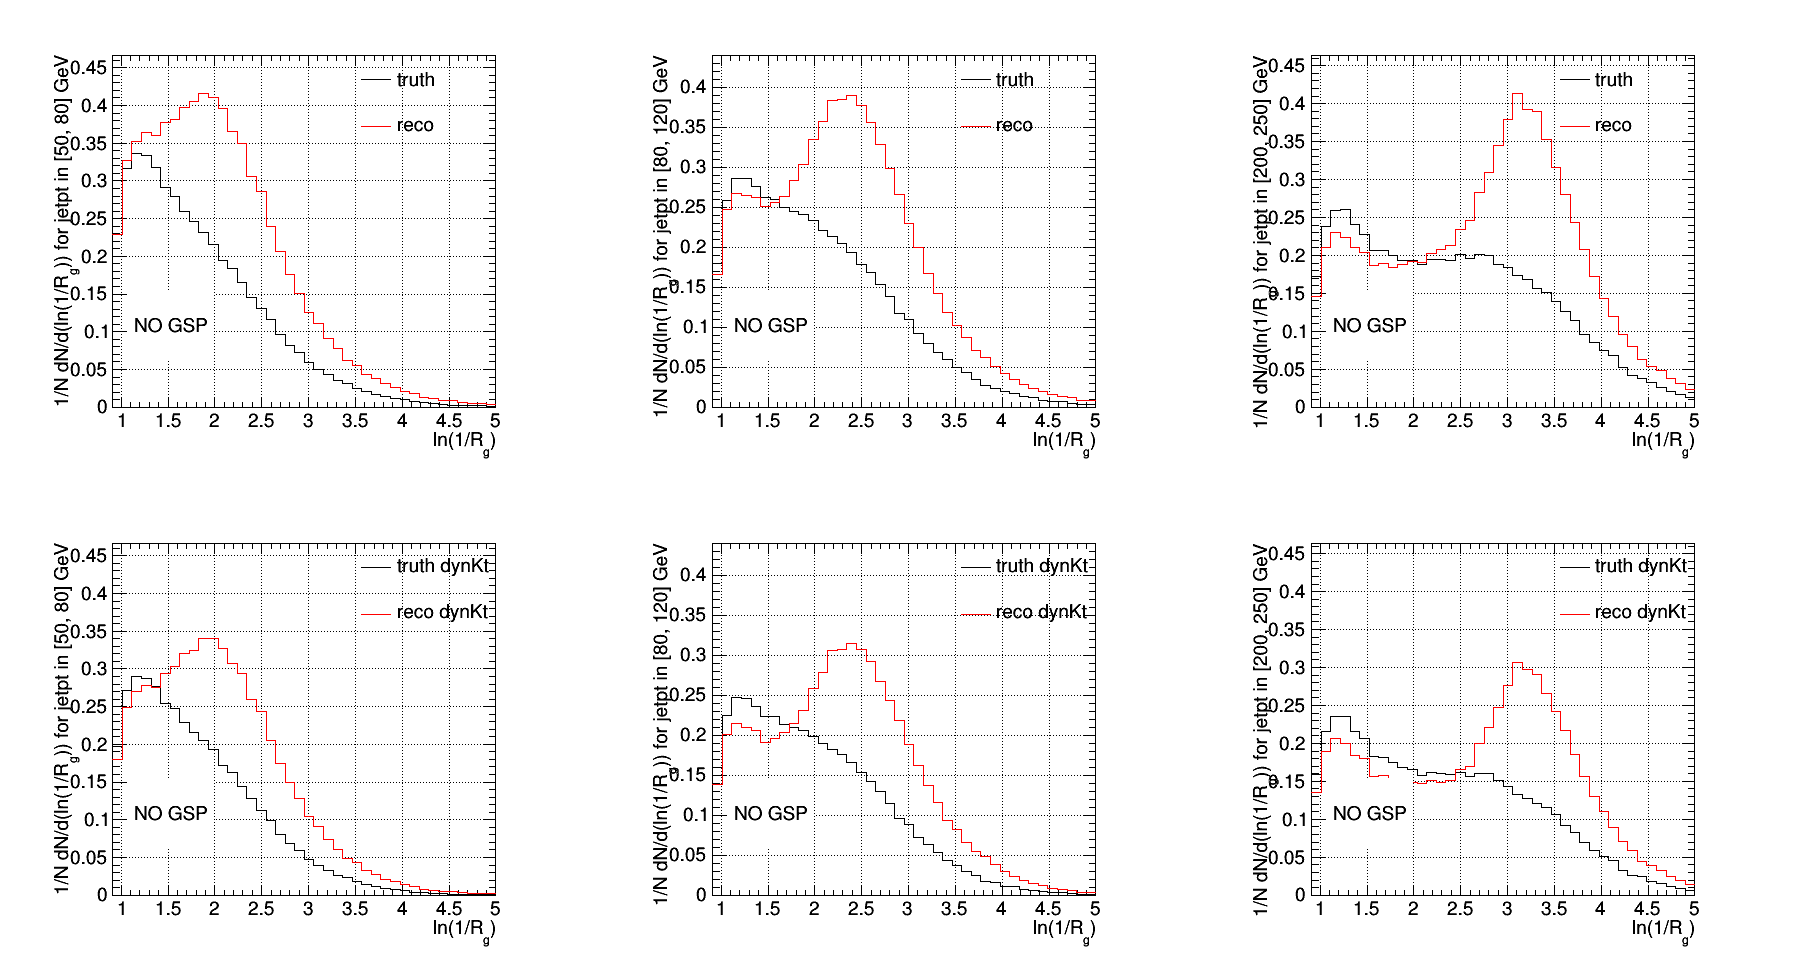
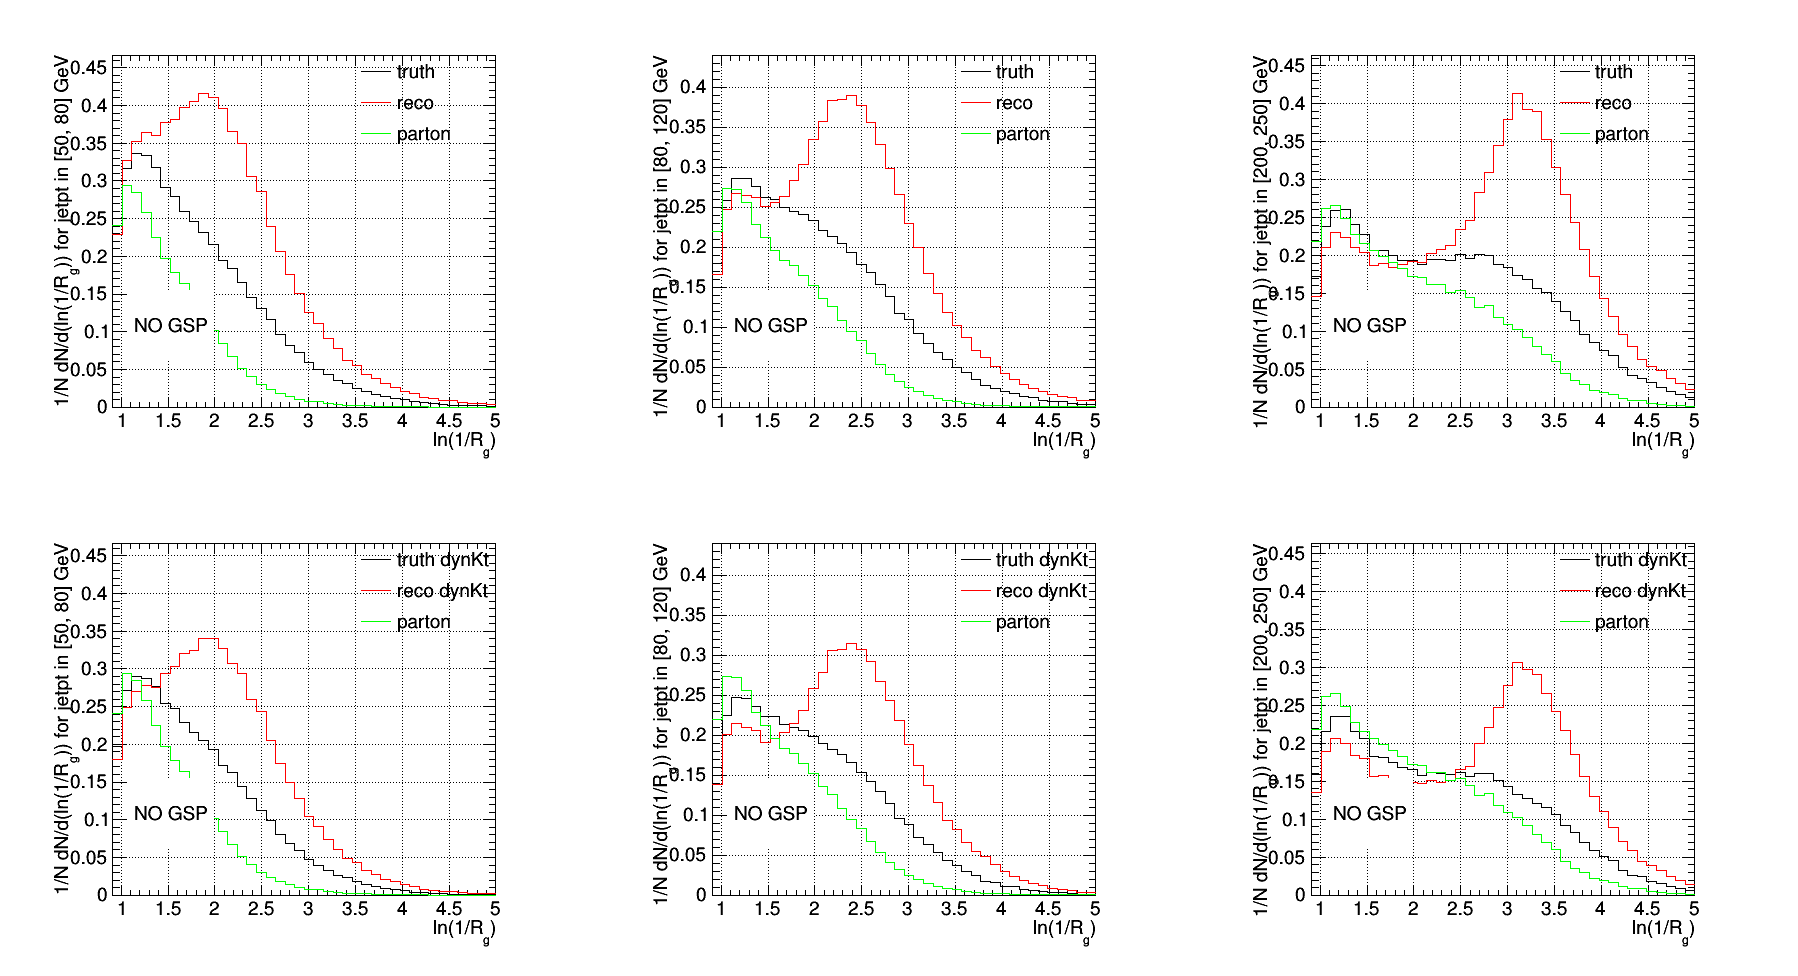
add par histos in plots

diff --git a/myMacros/pt2dscan/chargedSJ_mergedSVtracks_gen_reco/draw_chargedSJ_mergedSVtracks_gen_reco.C b/myMacros/pt2dscan/chargedSJ_mergedSVtracks_gen_reco/draw_chargedSJ_mergedSVtracks_gen_reco.C
@@ -12,7 +12,7 @@
 
 using namespace std;
 
-void draw_chargedSJ_mergedSVtracks_gen_reco(bool GSPincl = true)
+void draw_chargedSJ_mergedSVtracks_gen_reco(bool GSPincl = false)
 {      
     /* Draw truth vs reco level with manual B aggregation */ 
 
@@ -228,7 +228,7 @@ void draw_chargedSJ_mergedSVtracks_gen_reco(bool GSPincl = true)
         normalise_histo(h1d_ref_dynKt);
         normalise_histo(h1d_reco);
         normalise_histo(h1d_reco_dynKt);
-        normalise_histo(h2d_par);
+        normalise_histo(h1d_par);
 
         float ymax = std::max({h1d_ref->GetMaximum(), h1d_reco->GetMaximum(), 
                             h1d_ref_dynKt->GetMaximum(), h1d_reco_dynKt->GetMaximum(),

diff --git a/myMacros/pt2dscan/chargedSJ_mergedSVtracks_gen_reco/plot_chargedSJ_mergedSVtracks_gen_reco.C b/myMacros/pt2dscan/chargedSJ_mergedSVtracks_gen_reco/plot_chargedSJ_mergedSVtracks_gen_reco.C
@@ -5,7 +5,7 @@
 
 using namespace std;
 
-void plot_chargedSJ_mergedSVtracks_gen_reco(string level = "reco", bool GSPincl = false)
+void plot_chargedSJ_mergedSVtracks_gen_reco(string level = "par", bool GSPincl = true)
 {
     cout << "Running with options: " << endl;
     cout << "level : " << level << endl;
